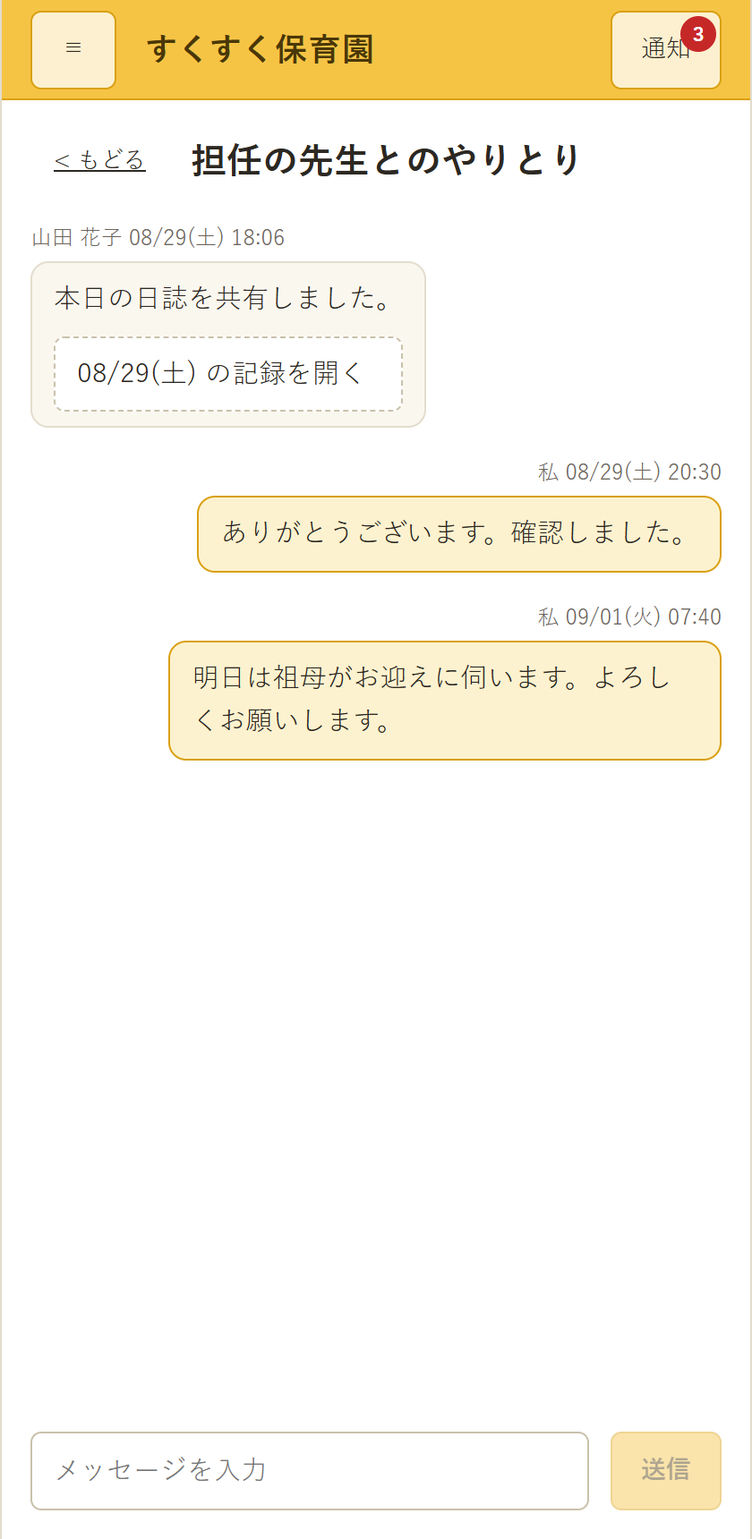
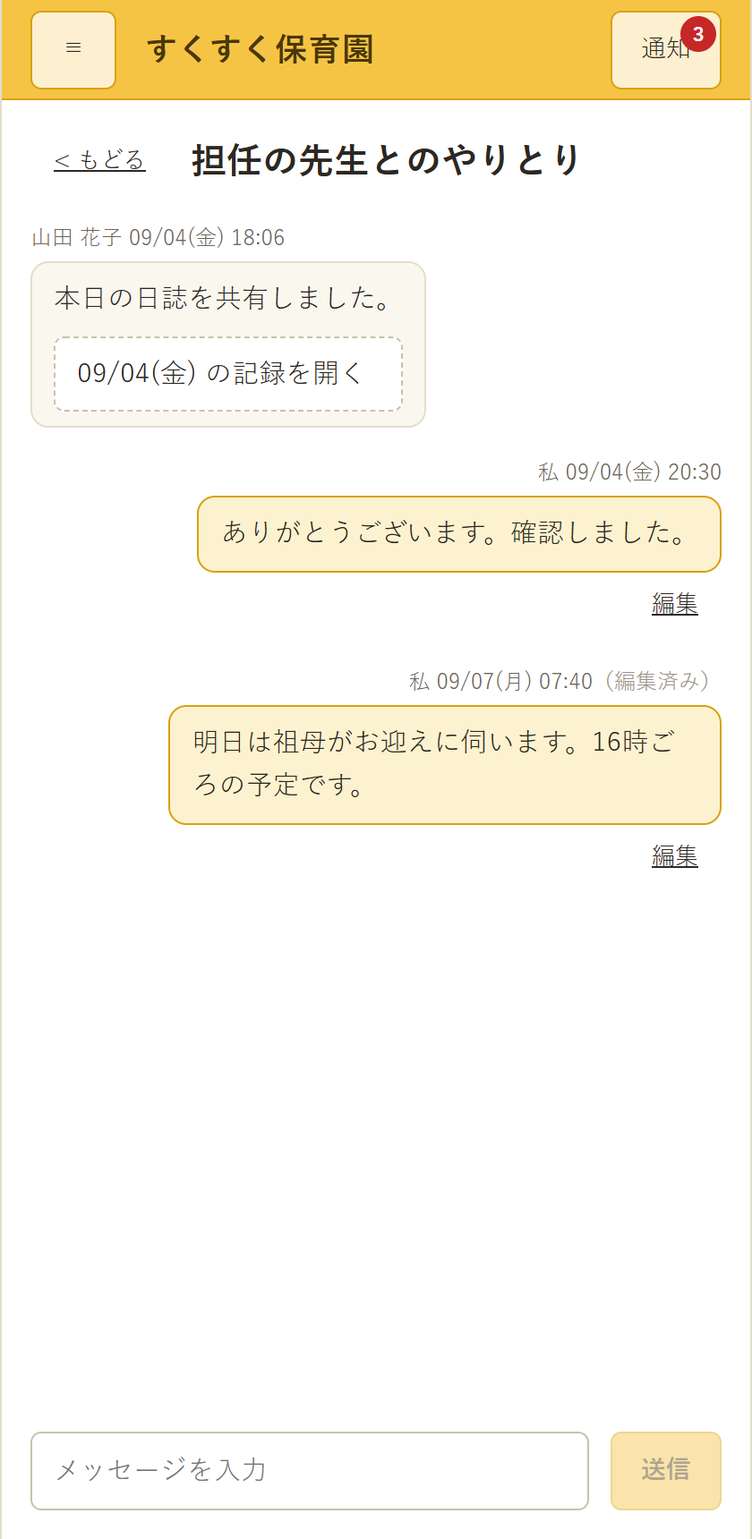
基本設計書 第2.0版の「メッセージの編集」に各図と実装を追随させた
5876b64 で基本設計書に「メッセージの編集」(4-6) が追記されたが、追記されたのは
設計書だけで、図5本・テスト仕様書・利用手引き・モックアップの画面がいずれも
未対応だった。

- 図/画面詳細図.md 第1.6版 … チャット2画面に編集の項目を追加し、編集中の画面を
  撮って貼った。保護者側は既読を表示しないが編集済みの印は表示する。編集の有無は
  読み手が知るべき情報であるため
- 図/画面遷移図.md 第1.6版 … 編集は画面遷移ではない旨を明記した
- 図/ユースケース図.md 第1.2版 … 職員・保護者の双方に「送信したメッセージを
  編集する」を追加した
- 図/アクティビティ図.md 第1.2版 … 「送信したメッセージの編集」(3-6) を新設し、
  本人か・取り消し済みか・本文が空でないかの3つの判定を図示した
- テスト仕様書.md 第1.4版 … TC-CHAT-007〜012 の6件を追加した（92件→98件）。
  内訳表の合計が古いままだったのもあわせて直した
- 利用手引き.md 第1.1版 … 職員向けと保護者向けに使い方を追記した。誤送信は編集
  ではなく取消と報告で対応することを明記した

実装側の対応は mockup-go-react の 6c6433a。サーバのAPIとデータ層は既にあったが
画面から呼んでおらず、設計に書いたのに操作できない状態だった。

Claude-Session: https://claude.ai/code/session_019kQVSTdz2gzHRJigvG6K7m

diff --git a/図/画面詳細図.md b/図/画面詳細図.md
@@ -3,7 +3,7 @@
 | 項目 | 内容 |
 | :-- | :-- |
 | 対象システム | 保育支援システム（すくすくシステム） |
-| 版数 | 第 1.5 版 |
+| 版数 | 第 1.6 版 |
 | 作成日 | 2026 年 9 月 1 日 |
 | 典拠 | `基本設計書.md` 第1.6版「画面の一覧」(3-2)・「画面基本構成」(3-5)・「画面詳細」(3-6)、`要件定義書.md` 第2.4版 |
 | 作成区分 | チーム開発演習 基本設計 |
@@ -12,6 +12,7 @@
 
 | 版 | 日付 | 変更内容 |
 | :-: | :-: | :-- |
+| 1.6 | 2026/09/08 | **チャット2画面に「メッセージの編集」の項目を追記した。** `基本設計書.md` 第2.0版「メッセージの編集」(4-6) の追記による。職員(4-1)へ編集・編集の入力欄・保存/やめる・編集済みの印・取消の5項目、保護者(4-2)へ編集・編集の入力欄・保存/やめる・編集済みの印の4項目を足し、**編集中の画面を撮って貼った**（40・41）。保護者側は既読を表示しないが**編集済みの印は表示する**（編集の有無は読み手が知るべき情報であるため） |
 | 1.5 | 2026/09/07 | **画面イメージを等幅テキストのワイヤーフレームから、実装のスクリーンショットへ差し替えた（全36画面）。** 作成当初は実装が無かったため描いていたが、全画面の実装がそろい、**描いた図より実物のほうが正確**になったため。撮影に足りなかった2画面（ログイン中に入口を開いたとき、保護者のメニューを開いた状態）を新たに撮った。項目表はそのまま残し、**項目表が仕様の正である**ことを「表記ルール」(0-1) に明記した。「残る作業」(10) は画面ID対応表の1件だけになった |
 | 1.4 | 2026/09/07 | **共有日誌閲覧画面 (2-8) を追加し、【要決定】【要確認】を 68件から11件へ減らした。** 設定マスタの既定値と入力項目の制約値が `基本設計書.md`「設定マスタ」(5-8)・「入力項目の制約値」(4-9) で確定したため、各画面の補足欄へ反映した。あわせて、保護者側チャットの画面分割・共有記録を開く画面・通知からの導線・きょうだいの切り替え・招待コードの入力形式・日誌の雛形の適用・パスワード変更時のセッション・保護者の表し方・規約改定時の差分表示が決着したため、該当の記述を確定に置き換えた。**残る11件は園またはチームの判断を要するもの**（園情報の記入、保護者への共有の既定値、保護者を目的別グループへ入れてよいか、年度更新の取り消し、卒園児の保護者の参照範囲） |
 | 1.3 | 2026/09/01 | **「本書で明らかになった要確認事項」(8) が持っていた13件の表を `要決定事項.md` へ移し、同項を案内に置き換えた。** 同じ事項を `図/画面遷移図.md` とも重複して持っており（3件）、一覧が3か所に分かれていたため。`CLAUDE.md`「要決定事項の扱い」に従い、未確定事項の一覧は同書1本が持つ。本文の【要確認】表記は残し、**番号での参照（「要確認事項」(8) No.8 など）を項目名での参照へ改めた** |
@@ -452,7 +453,9 @@
 
 ## 4-1 チャット画面（職員・タブレット／PC）
 
-<img src="画面画像/13_チャット画面_職員.png" width="760">
+| 通常の表示 | 編集中 |
+| :--: | :--: |
+| <img src="画面画像/13_チャット画面_職員.png" width="440"> | <img src="画面画像/40_チャット画面_職員_編集中.png" width="440"> |
 
 **項目**
 
@@ -467,16 +470,24 @@
 | 7 | メッセージを入力 | テキストエリア | 初期値：空／入力：任意／制限：**1,000文字以内**。**園全体（園チャット）では一般に表示しない**（閲覧のみ） |
 | 8 | 添付 | ファイル選択 | 初期値：なし／入力：任意／制限：**形式は JPEG・PNG、1ファイル10MB まで**（`基本設計書.md`「設定マスタ」(5-8)） |
 | 9 | 送信 | ボタン | 処理：メッセージを送信する／処理結果：**送信の取り消しは行えない**。誤送信は `基本設計書.md`「誤送信への対応」(4-6) に従う |
+| 10 | 編集 | ボタン | 処理：本文を編集できる状態にする／制限：**送信者本人の、手入力のメッセージにのみ表示する**。共有された記録や取り消し済みのものには出さない（`基本設計書.md`「メッセージの編集」(4-6)） |
+| 11 | 編集の入力欄 | テキストエリア | 初期値：**編集前の本文**／入力：必須（空にはできない）／制限：**1,000文字以内**。新規送信と同じ |
+| 12 | 保存・やめる | ボタン | 処理：保存すると本文を上書きし、編集日時を記録する。やめると編集前の本文に戻す |
+| 13 | 編集済みの印 | ラベル | 表示：編集されたメッセージに「（編集済み）」を添える。**送信者・受信者の双方に表示する** |
+| 14 | 取消 | ボタン | 処理：メッセージを取り消す／制限：送信者本人のみ。取り消したものは編集できない |
 
 - **チャンネルの切替は画面遷移ではない**（`図/画面遷移図.md`「チャットツール」(4)）。メッセージ領域が入れ替わるだけ
 - 未読はチャンネル一覧に件数で示す。**既読はメッセージ側に人数で示す**
 - 園全体（園チャット）は、一般には**投稿欄を表示しない**（閲覧のみ）
+- **編集の回数・期限は設けない。** 編集前の本文は操作ログへ記録する（`基本設計書.md`「メッセージの編集」(4-6)）
+- **既読状態とリアクションは編集の影響を受けない。** そのまま維持する
+- 添付ファイルは編集の対象外。差し替えが必要なときは**取消のうえ再送信**する
 
 ## 4-2 チャット画面（保護者・スマートフォン）
 
-| チャンネル一覧 | 会話（同じ画面の中で入れ替える） |
-| :--: | :--: |
-| <img src="画面画像/35_チャット画面_保護者.png" width="260"> | <img src="画面画像/37_チャット画面_保護者_会話.png" width="260"> |
+| チャンネル一覧 | 会話（同じ画面の中で入れ替える） | 編集中 |
+| :--: | :--: | :--: |
+| <img src="画面画像/35_チャット画面_保護者.png" width="240"> | <img src="画面画像/37_チャット画面_保護者_会話.png" width="240"> | <img src="画面画像/41_チャット画面_保護者_編集中.png" width="240"> |
 
 **項目**
 
@@ -489,10 +500,16 @@
 | 5 | メッセージを入力 | テキストエリア | 初期値：空／入力：任意／制限：**個人チャットにのみ表示**する。園全体・グループには表示しない |
 | 6 | 添付 | ファイル選択 | 初期値：なし／入力：任意／制限：**形式は JPEG・PNG、1ファイル10MB まで** |
 | 7 | 送信 | ボタン | 処理：メッセージを送信する／処理結果：送信の取り消しは行えない |
+| 8 | 編集 | ボタン | 処理：本文を編集できる状態にする／制限：**自分が送った、手入力のメッセージにのみ表示する**（`基本設計書.md`「メッセージの編集」(4-6)） |
+| 9 | 編集の入力欄 | テキストエリア | 初期値：編集前の本文／入力：必須（空にはできない）／制限：**1,000文字以内** |
+| 10 | 保存・やめる | ボタン | 処理：保存すると本文を上書きする。やめると編集前の本文に戻す |
+| 11 | 編集済みの印 | ラベル | 表示：編集されたメッセージに「（編集済み）」を添える。**園から送られたものにも表示する**（編集の有無は隠さない） |
 
 - **一覧と各チャンネルは、同じ画面の中で入れ替えて表示する。** 別々の画面には分けない。シングルカラムでも戻る操作で一覧へ帰るだけであり、画面を分けても表示項目は増えないため（`基本設計書.md`「画面の一覧」(3-2)）
 - 共有された日誌は**共有日誌閲覧画面** (2-8) で開く
 - 保護者は**個人チャットのみ送受信**。園全体・グループには投稿欄を表示しない
+- **編集できるのは自分が送ったものだけ。** 園から送られたメッセージは編集できない
+- **既読は保護者側に一切表示しない**が、**編集済みの印は表示する**。既読は園内の運用の情報であるのに対し、編集の有無は**読み手が知るべき情報**であるため
 
 ## 4-3 グループ編成画面
 

diff --git a/テスト仕様書.md b/テスト仕様書.md
@@ -5,7 +5,7 @@
 | 項目 | 内容 |
 | :-- | :-- |
 | 対象システム | 保育支援システム（すくすくシステム） |
-| 版数 | 第 1.3 版 |
+| 版数 | 第 1.4 版 |
 | 作成日 | 2026 年 8 月 7 日（第1.3版：2026 年 9 月 7 日） |
 | 典拠 | `要件定義書.md` 第2.11版、`基本設計書.md` 第1.9版 |
 | 対象実装 | **`mockup-go-react` ブランチ**（Go 1.27 + SQLite ／ React 19 + TypeScript） |
@@ -15,6 +15,7 @@
 
 | 版 | 日付 | 変更内容 |
 | :-: | :-: | :-- |
+| 1.4 | 2026/09/08 | **チャットに「メッセージの編集」のケース6件（TC-CHAT-007〜012）を追加した。** `基本設計書.md` 第2.0版「メッセージの編集」(4-6) が追記されたことによる。6件とも自動テスト化済み（`web/tests/flow.test.ts`）。ケースは 92件から **98件**になった |
 | 1.3 | 2026/09/07 | **対象実装を `mockup` ブランチ（Flask）から `mockup-go-react` ブランチ（Go + React）へ移した。** 移行が完了し、Flask 版を退役させたため（要件定義書「本演習での動作検証環境」(6-2)）。テストの種類・自動テストの構成・テスト環境を実物に合わせて書き直した。**自動テストは27件から101件（モック89・結合12）になった。** 典拠の版数を更新した。テストケースの内容そのものに変更はない |
 | 1.2 | 2026/08/11 | 典拠とする各文書の版数を更新（要件定義書 第1.9版、基本設計書（身体記録）第5.1版、発達チェック要件定義書 第2.5版）。要件定義書への相互参照を**名称主体の表記へ統一**した。テストケースの内容そのものに変更はない |
 | 1.0 | 2026/08/07 | 新規作成。共通部分（認証・権限・参照範囲）と `mockup` ブランチに実装がある範囲を対象に、テスト方針・テスト観点11件・**テストケース 92 件**を定義。あわせて実装と要件の差異7件を洗い出した |
@@ -153,7 +154,7 @@ cd web && SUKUSUKU_API=http://localhost:8080 npm run test:integration   # 結合
 - 「自動」列 … 対応する自動テストがあるものは関数名を示す（`test_perm_*` は `test_permissions.py`、それ以外は `test_physical_api.py`）。空欄は手動実施。
 - 「結果」列 … 実施時に `OK` / `NG` / `未実施` を記入する。NG の場合は Issue 番号を併記する。
 
-**ケースの内訳（全 92 件）**
+**ケースの内訳（全 98 件）**
 
 | 領域 | 件数 | うち自動化済み |
 | :-- | :-: | :-: |
@@ -162,13 +163,13 @@ cd web && SUKUSUKU_API=http://localhost:8080 npm run test:integration   # 結合
 | 3-3 権限・参照範囲（TC-PERM） | 16 | **16** |
 | 3-4 身体記録（TC-PHYS） | 29 | 8 |
 | 3-5 午睡チェック（TC-NAP） | 8 | 0 |
-| 3-6 チャット（TC-CHAT） | 6 | 0 |
+| 3-6 チャット（TC-CHAT） | 12 | 6 |
 | 3-7 日誌のステータス管理（TC-DIARY） | 4 | 0 |
 | 3-8 発達チェック（TC-DEV） | 7 | 0 |
 | 3-9 設計原則の確認（TC-PRIN） | 7 | 0 |
-| **合計** | **92** | **27** |
+| **合計** | **98** | **31** |
 
-**残り 65 件は手動実施**となる。次に自動化しやすいのは認証（TC-AUTH-003〜006）と発達チェック（TC-DEV-001〜006）で、いずれも API を直接叩くだけで確認できる。
+**残り 67 件は手動実施**となる。次に自動化しやすいのは認証（TC-AUTH-003〜006）と発達チェック（TC-DEV-001〜006）で、いずれも API を直接叩くだけで確認できる。
 
 画面表示・免責表示・判定が無いことの確認（TC-PHYS-020〜022、TC-NAP-008、TC-DEV-007、TC-PRIN）は、**性質上ブラウザまたはソースコードの目視でしか確認できない**ため手動のまま残す。
 
@@ -298,6 +299,12 @@ cd web && SUKUSUKU_API=http://localhost:8080 npm run test:integration   # 結合
 | TC-CHAT-004 | V-04 | 空メッセージを弾く | 同上 | 空文字・空白のみを送信 | HTTP 400、「メッセージが空です」 | | |
 | TC-CHAT-005 | | 存在しないチャンネルは 404 | 同上 | `GET /api/channels/nothing/messages` | HTTP 404、「チャンネルが見つかりません」 | | |
 | TC-CHAT-006 | V-03 | ロールごとに見えるチャンネルが変わる | 各ロールでログイン | `GET /api/bootstrap` の `channels` を比較 | 権限が `none` のチャンネルは一覧に現れない | `test_channel_list_is_filtered_by_role` | |
+| TC-CHAT-007 | | 送信者本人は編集できる | 職員でログインし1件送信 | 自分のメッセージを編集して保存 | 本文が置き換わり、`edited_at` が入る。「（編集済み）」が表示される | `送信者本人は自分のメッセージを編集でき、編集済みの印が残る` | |
+| TC-CHAT-008 | | 他人のメッセージは編集できない | 別のアカウントでログイン | 他者のメッセージを編集 | 拒否される。本文は変わらない | `他人のメッセージは編集できない` | |
+| TC-CHAT-009 | | 編集前の本文を操作ログへ残す | 職員でログイン | メッセージを編集 | 操作ログに変更前後の本文が残る（操作区分は変更） | `編集前の本文を操作ログへ残す` | |
+| TC-CHAT-010 | | 編集の回数に制限がない | 職員でログイン | 同じメッセージを続けて2回編集 | いずれも成功し、最後の本文になる | `回数の制限を設けない（続けて編集できる）` | |
+| TC-CHAT-011 | | 取り消したメッセージは編集できない | 職員でログイン | 取り消したメッセージを編集 | 拒否される（「取り消したメッセージは編集できません」） | `取り消したメッセージは編集できない` | |
+| TC-CHAT-012 | V-04 | 空の本文では編集できない | 職員でログイン | 空白のみで編集を保存 | 拒否される。本文は変わらない | `空の本文では編集できない` | |
 
 ## 3-7 日誌のステータス管理（TC-DIARY）
 

diff --git a/図/ユースケース図.md b/図/ユースケース図.md
@@ -3,7 +3,7 @@
 | 項目 | 内容 |
 | :-- | :-- |
 | 対象システム | 保育支援システム（すくすくシステム） |
-| 版数 | 第 1.1 版 |
+| 版数 | 第 1.2 版 |
 | 作成日 | 2026 年 8 月 4 日 |
 | 典拠 | `要件定義書.md` 第2.0版 |
 | 作成区分 | チーム開発演習 基本設計 |
@@ -12,6 +12,7 @@
 
 | 版 | 日付 | 変更内容 |
 | :-: | :-: | :-- |
+| 1.2 | 2026/09/08 | **「送信したメッセージを編集する」を職員・保護者の双方へ追加した。** `基本設計書.md` 第2.0版「メッセージの編集」(4-6) の追記による。送信者本人のみ・回数と期限の制限なし・編集前の本文は操作ログへ・「編集済み」の印を双方に表示、を説明欄に記した |
 | 1.1 | 2026/08/27 | 認証まわりの確定方針（要件定義書 第2.0版）を反映。**未ログイン利用者の図を保護者用／職員用の2系統の入口に分割**し、職員用トップに新規登録を置かないことを図と表に明示した。**ログアウトのユースケースを保護者・一般に追加**（管理者は汎化により継承）。用語を「新規登録」に統一し、典拠列を項目名主体の表記へ改めた |
 | 1.0 | 2026/08/04 | 新規作成。要件定義書 第1.7版の機能表・権限表から、利用者種別ごとにユースケースを抽出 |
 
@@ -121,6 +122,7 @@ flowchart LR
 
     subgraph SYS["保育支援システム"]
         G1["個人チャットで園とやり取りする"]
+        G1b["送信したメッセージを編集する"]
         G2["グループチャットを閲覧する"]
         G3["園チャットを閲覧する"]
         G4["自児の記録を閲覧する"]
@@ -145,6 +147,7 @@ flowchart LR
 | ユースケース | 内容と制約 | 典拠 |
 | :-- | :-- | :-- |
 | 個人チャットで園とやり取りする | 園（職員）との1対1の連絡。**既読状態は保護者側に一切表示しない** | 4-2 (2) |
+| 送信したメッセージを編集する | **自分が送ったものだけ**。園から送られたメッセージは編集できない。「編集済み」の印は双方に表示される | 4-2 (2) |
 | グループチャットを閲覧する | **閲覧のみ（投稿不可）。現在所属しているグループのみ**参照でき、過年度のクラスグループは参照できない | 4-2 (2) (c) |
 | 園チャットを閲覧する | 園全体のお知らせ。閲覧のみ | 4-2 (2) |
 | 自児の記録を閲覧する | 共有された日誌、共有可に設定された発達記録・身体測定・成長グラフを個人チャット上で閲覧する。**自児のみ** | 4-2 (1)(4) |
@@ -191,6 +194,7 @@ flowchart LR
         subgraph C["チャット"]
             S14["職員・グループチャットで連絡する"]
             S15["保護者と個人チャットでやり取りする"]
+            S15b["送信したメッセージを編集する"]
             S16["未対応スレッドを処理する"]
         end
         S17["園児情報を参照する"]
@@ -238,6 +242,7 @@ flowchart LR
 | チェック漏れを確認する | 実施予定日を過ぎて**未入力**の項目・園児を強調表示する（「未確認」は対象外） | 4-2 (4) |
 | 職員・グループチャットで連絡する | 職員チャット、クラスグループ、目的別グループで送受信する | 4-2 (2) |
 | 保護者と個人チャットでやり取りする | 未対応／対応済みの状態を切り替える。**既読確認は職員のみ利用できる** | 4-2 (2) |
+| 送信したメッセージを編集する | **送信者本人のみ**。回数と期限の制限はない。編集前の本文は操作ログへ残り、「編集済み」の印が双方に表示される。取り消し済みのものは編集できない | 4-2 (2) |
 | 未対応スレッドを処理する | 未対応を上位に表示し、クラス・園児名で絞り込む。**担当者の指定はシステムでは行わない** | 4-2 (2) |
 | 園児情報を参照する | **閲覧のみ。登録・編集は管理者が行う**（園児マスターは 4-1-3 に一本化） | 4-1-3 |
 | アレルギー一覧を参照する | **全園児を参照できる（8 No.6 の例外）。** 表示項目は氏名・クラス・アレルギー情報に限る | 4-1-3 |

diff --git a/図/画面遷移図.md b/図/画面遷移図.md
@@ -3,7 +3,7 @@
 | 項目 | 内容 |
 | :-- | :-- |
 | 対象システム | 保育支援システム（すくすくシステム） |
-| 版数 | 第 1.5 版 |
+| 版数 | 第 1.6 版 |
 | 作成日 | 2026 年 9 月 7 日 |
 | 典拠 | `基本設計書.md` 第1.7版「画面の一覧」(3-2)、`要件定義書.md` 第2.4版、Go + React 版モックアップ（`mockup-go-react` ブランチ） |
 | 作成区分 | チーム開発演習 基本設計 |
@@ -12,6 +12,7 @@
 
 | 版 | 日付 | 変更内容 |
 | :-: | :-: | :-- |
+| 1.6 | 2026/09/08 | **メッセージの編集が画面遷移ではないことを「チャットツール」(4) に明記した。** `基本設計書.md` 第2.0版「メッセージの編集」(4-6) の追記による。該当のメッセージが入力欄に変わるだけで別画面へは移らない。遷移一覧にも1行加えた |
 | 1.5 | 2026/09/07 | **「モックアップ実装との差異」(9) の No.1・No.2・No.8 が決着したため、対応済みとして書き改めた。** チャット画面を職員用・保護者用の2画面に分け、共有日誌閲覧画面を設け、通知からの導線を職員ダッシュボード側に持たせると定めた（`基本設計書.md`「画面の一覧」(3-2)・「画面基本構成」(3-5)）。あわせて「本書で明らかになった要確認事項」(10) を、残る4件と決着した4件に整理した |
 | 1.4 | 2026/09/07 | **モックアップ側で GitHub Issue #63・#64 を直したため、共有範囲設定画面と午睡記録検索画面の遷移を「導線なし」から実際の導線へ改めた。** あわせて #65（保護者チャットの送信者名）の修正後の画面へ差し替えた。撮り直した5枚のうち、見た目が変わったのは発達チェック一覧画面・午睡チェック画面・チャット画面（保護者・会話）の3枚（共有範囲設定画面と午睡記録検索画面は、入る導線が増えただけで画面自体は変わらない） |
 | 1.3 | 2026/09/07 | **Go + React 版モックアップの実画面を貼り、遷移を実装に合わせて改めた。** 画像は同モックアップを動かして撮ったもの（「画面画像の出典」(0-2)）。実装と本書 第1.2版の食い違い9件を「モックアップ実装との差異」(9) に整理した。うち**保護者が共有された記録を開く画面**と**保護者側チャットの画面分割**は実装が答えを持っており、チームの追認で `要決定事項.md` から落とせる見込み |
@@ -216,9 +217,11 @@ flowchart TD
 | サイドナビ「管理（管理者）」 | 誤送信対応 | 誤送信対応記録画面 |
 | 保護者ホーム | チャットを開く | チャット画面（保護者） |
 | チャット画面（保護者） | チャンネルを開く／一覧へ戻る | 同じ画面の中の切り替え（遷移ではない） |
+| チャット画面（職員）／チャット画面（保護者） | 自分のメッセージを編集 | 同じ画面の中の切り替え（遷移ではない） |
 | チャット画面（保護者） | 共有された日誌のカード | 共有日誌閲覧画面 |
 
 - **チャンネルの切り替えは画面遷移ではない。** 園チャット・グループチャット・個人チャット・職員チャットは、いずれもチャット画面の中の表示の切り替えとして扱う
+- **メッセージの編集も画面遷移ではない。** 該当のメッセージが入力欄に変わるだけで、別画面へは移らない（`基本設計書.md`「メッセージの編集」(4-6)）。職員側・保護者側の双方で同じ扱いとする
 - 保護者はチャット画面のみを利用し、グループ編成画面・誤送信対応記録画面への導線を持たない
 - **誤送信対応記録画面へはチャット画面からではなく、サイドナビの「管理（管理者）」から入る**（「モックアップ実装との差異」(9) No.3）
 

diff --git a/図/アクティビティ図.md b/図/アクティビティ図.md
@@ -3,7 +3,7 @@
 | 項目 | 内容 |
 | :-- | :-- |
 | 対象システム | 保育支援システム（すくすくシステム） |
-| 版数 | 第 1.1 版 |
+| 版数 | 第 1.2 版 |
 | 作成日 | 2026 年 8 月 4 日 |
 | 典拠 | `要件定義書.md` 第2.0版 |
 | 作成区分 | チーム開発演習 基本設計 |
@@ -12,6 +12,7 @@
 
 | 版 | 日付 | 変更内容 |
 | :-: | :-: | :-- |
+| 1.2 | 2026/09/08 | **「送信したメッセージの編集」(3-6) を新設した。** `基本設計書.md` 第2.0版「メッセージの編集」(4-6) の追記による。本人か・取り消し済みか・本文が空でないかの3つの判定と、編集前の本文を操作ログへ残す流れを図示した |
 | 1.1 | 2026/08/27 | 認証まわりの確定方針（要件定義書 第2.0版）を反映。**「ログアウト」(2-3) のフローを新規追加**（保存していない入力の確認、セッション無効化、系統別のトップへの遷移）。「ログイン」(2-2) に**入口の系統とアカウントのロールが一致するかの判定**を追加し、起点を「自分の系統のトップを開く」に改めた。「保護者アカウントの自己登録」(2-1) の起点を保護者用トップからの新規登録に改めた |
 | 1.0 | 2026/08/04 | 新規作成。要件定義書 第1.7版から主要11業務のフローを図示 |
 
@@ -278,6 +279,35 @@ flowchart TD
 ```
 
 - **紐づけの解除は管理者のみが行える**（誤入力・親権の変更に対応）。解除は操作ログに記録する（4-1-2）。
+
+## 3-6 送信したメッセージの編集
+
+```mermaid
+flowchart TD
+    S(["開始"]) --> A1["【利用者】自分が送ったメッセージの編集を選ぶ"]
+    A1 --> D1{"【システム】送信者本人か"}
+    D1 -->|違う| A2["【システム】編集できない旨を示す"]
+    A2 --> E2(["終了"])
+    D1 -->|本人| D2{"【システム】取り消し済みか"}
+    D2 -->|取消済| A3["【システム】編集できない旨を示す"]
+    A3 --> E2
+    D2 -->|有効| A4["【システム】本文を編集できる状態にする"]
+    A4 --> A5["【利用者】本文を書き換えて保存する"]
+    A5 --> D3{"【システム】本文は空でないか"}
+    D3 -->|空| A6["【システム】本文の入力を促す"]
+    A6 --> A5
+    D3 -->|入力あり| A7["【システム】本文を上書きし編集日時を記録する"]
+    A7 --> A8["【システム】編集前の本文を操作ログへ記録する"]
+    A8 --> A9["【システム】編集済みの印を双方へ表示する"]
+    A9 --> E(["完了"])
+```
+
+- **編集できるのは送信者本人だけ**である。他者のメッセージは編集できない（4-2 (2)）。
+- **回数と期限の制限は設けない。** 何度でも、いつでも直せる。
+- **編集前の本文は操作ログへ残る。** 変更系の操作として扱い、後から何を直したかを追える。
+- **「編集済み」の印は送信者・受信者の双方に表示する。** 既読確認と異なり、編集の有無は隠さない。
+- **添付ファイルは編集の対象外。** 差し替えが必要なときは取消のうえ再送信する。
+- 他児の情報を誤って送った等は、本人の編集ではなく**誤送信への対応**（4-4）に従う。
 
 # 4 管理業務
 

diff --git a/進捗ログ.md b/進捗ログ.md
@@ -4,6 +4,32 @@
 
 ---
 
+## 2026-09-08（docs / mockup-go-react）※基本設計書 第2.0版の「メッセージの編集」に各文書と実装を追随させた
+
+### やったこと
+- **`5876b64`（基本設計書 第2.0版「メッセージの編集」(4-6) の追記）を取り込み、追随できていない箇所を洗い出した。** 追記されたのは設計書だけで、**図5本・テスト仕様書・利用手引き・モックアップの画面がいずれも未対応**だった
+- **モックアップに編集の導線を実装**（`mockup-go-react` の `6c6433a`）
+  - サーバのAPI（`POST /api/chat/messages/{id}/edit`）とデータ層は**既にあったが、画面から呼んでいなかった**。設計に書いたのに操作できない状態で、Issue #63・#64（導線なし）と同じ形の抜け
+  - 職員・保護者の両チャット画面へ「編集」を追加。送信者本人の、手入力のメッセージにのみ出す
+  - **サーバとモックの双方に検証を足した。** 設計にある「取り消し済みは編集できない」「本文が空では編集できない」が実装に無かった
+  - 編集のテスト6件を追加（テストは89件→95件）
+- **各図へ追記**
+  - `図/画面詳細図.md` 第1.6版 … チャット2画面に編集の項目を追加し、**編集中の画面を撮って貼った**（40・41）
+  - `図/画面遷移図.md` 第1.6版 … 編集は画面遷移ではない旨を明記
+  - `図/ユースケース図.md` 第1.2版 … 職員・保護者の双方に「送信したメッセージを編集する」を追加
+  - `図/アクティビティ図.md` 第1.2版 … 「送信したメッセージの編集」(3-6) を新設
+- **`テスト仕様書.md` 第1.4版** … TC-CHAT-007〜012 の6件を追加（92件→98件、自動化31件）
+- **`利用手引き.md` 第1.1版** … 職員向け(2-7)と保護者向け(3-2)に使い方を追記
+
+### 決めたこと
+- **保護者側にも「編集済み」の印を出す。** 既読は保護者に一切表示しない扱いだが、編集の有無は**読み手が知るべき情報**であり、隠す理由がない
+- **編集できるのは手入力のメッセージだけ**とした。共有された記録のカードには編集を出さない。添付の差し替えは取消して再送信する
+
+### 未解決／次にやること
+- **設計書に機能が追記されたとき、図・テスト・手引き・実装が追随できていない**状態が生まれる。今回は6か所に及んだ。追記側で参照先を洗う手順を決めるとよい
+
+---
+
 ## 2026-09-07（mockup-go-react）※モックアップのセットアップ手順書を作成した
 
 ### やったこと

diff --git a/利用手引き.md b/利用手引き.md
@@ -5,7 +5,7 @@
 | 項目 | 内容 |
 | :-- | :-- |
 | 対象システム | 保育支援システム「すくすくシステム」 |
-| 版数 | 第 1.0 版 |
+| 版数 | 第 1.1 版 |
 | 作成日 | 2026 年 9 月 7 日 |
 | 対象読者 | 園長・主任・保育士・保護者 |
 | 典拠 | `要件定義書.md` 第2.11版、`基本設計書.md` 第1.9版 |
@@ -15,6 +15,7 @@
 
 | 版 | 年月日 | 変更内容 |
 | :-: | :-: | :-- |
+| 1.1 | 2026/09/08 | **「送ったあとに書き直したいとき」を職員向け(2-7)と保護者向け(3-2)に追記した。** `基本設計書.md` 第2.0版「メッセージの編集」(4-6) の追記による。直したことは相手に見えること、取り消したものは直せないこと、誤送信は編集ではなく取消と報告で対応することを明記した |
 | 1.0 | 2026/09/07 | 新規作成。**設計書だけでは運用できない事柄**（午睡チェックの開いたままの運用、共有端末での担当交代、緊急連絡の切り分け、通知が届かないことがある前提）を、現場の手順として書き起こした |
 
 ---
@@ -189,6 +190,19 @@
 - **保護者を目的別グループに入れることはできない**
 - 送ったメッセージは**取り消せる**が、相手が既に読んでいることがある
 
+**送ったあとに書き直したいとき**
+
+1. 自分が送ったメッセージの「編集」を押す
+2. 本文を直して「保存」
+
+- **直せるのは自分が送ったものだけ**である。他の人のメッセージは編集できない
+- **何回でも、いつでも直せる**（回数や時間の制限はない）
+- 直すと**「（編集済み）」と表示される。** 相手にも見える。**直したことは隠れない**
+- **取り消したメッセージは直せない。** 写真を差し替えたいときも、いったん取り消して送り直す
+- 直す前の本文は**操作ログに残る**
+
+> **他児の情報を誤って送ってしまったときは、編集ではなく取り消して管理者に伝える**（下記）。編集で書き換えても、相手が既に読んでいれば意味がない。
+
 **誤って送ってしまったとき**
 
 1. メッセージを取り消す
@@ -216,6 +230,7 @@
 | :-- | :-- |
 | 園からのお知らせを読む | チャット |
 | 担任の先生とやりとりする | チャット |
+| 送ったメッセージを直す | チャット（自分のメッセージの「編集」） |
 | 共有された記録を読む | ホームの「最近の記録」、またはチャットのカード |
 | パスワードを変える | メニュー |
 
